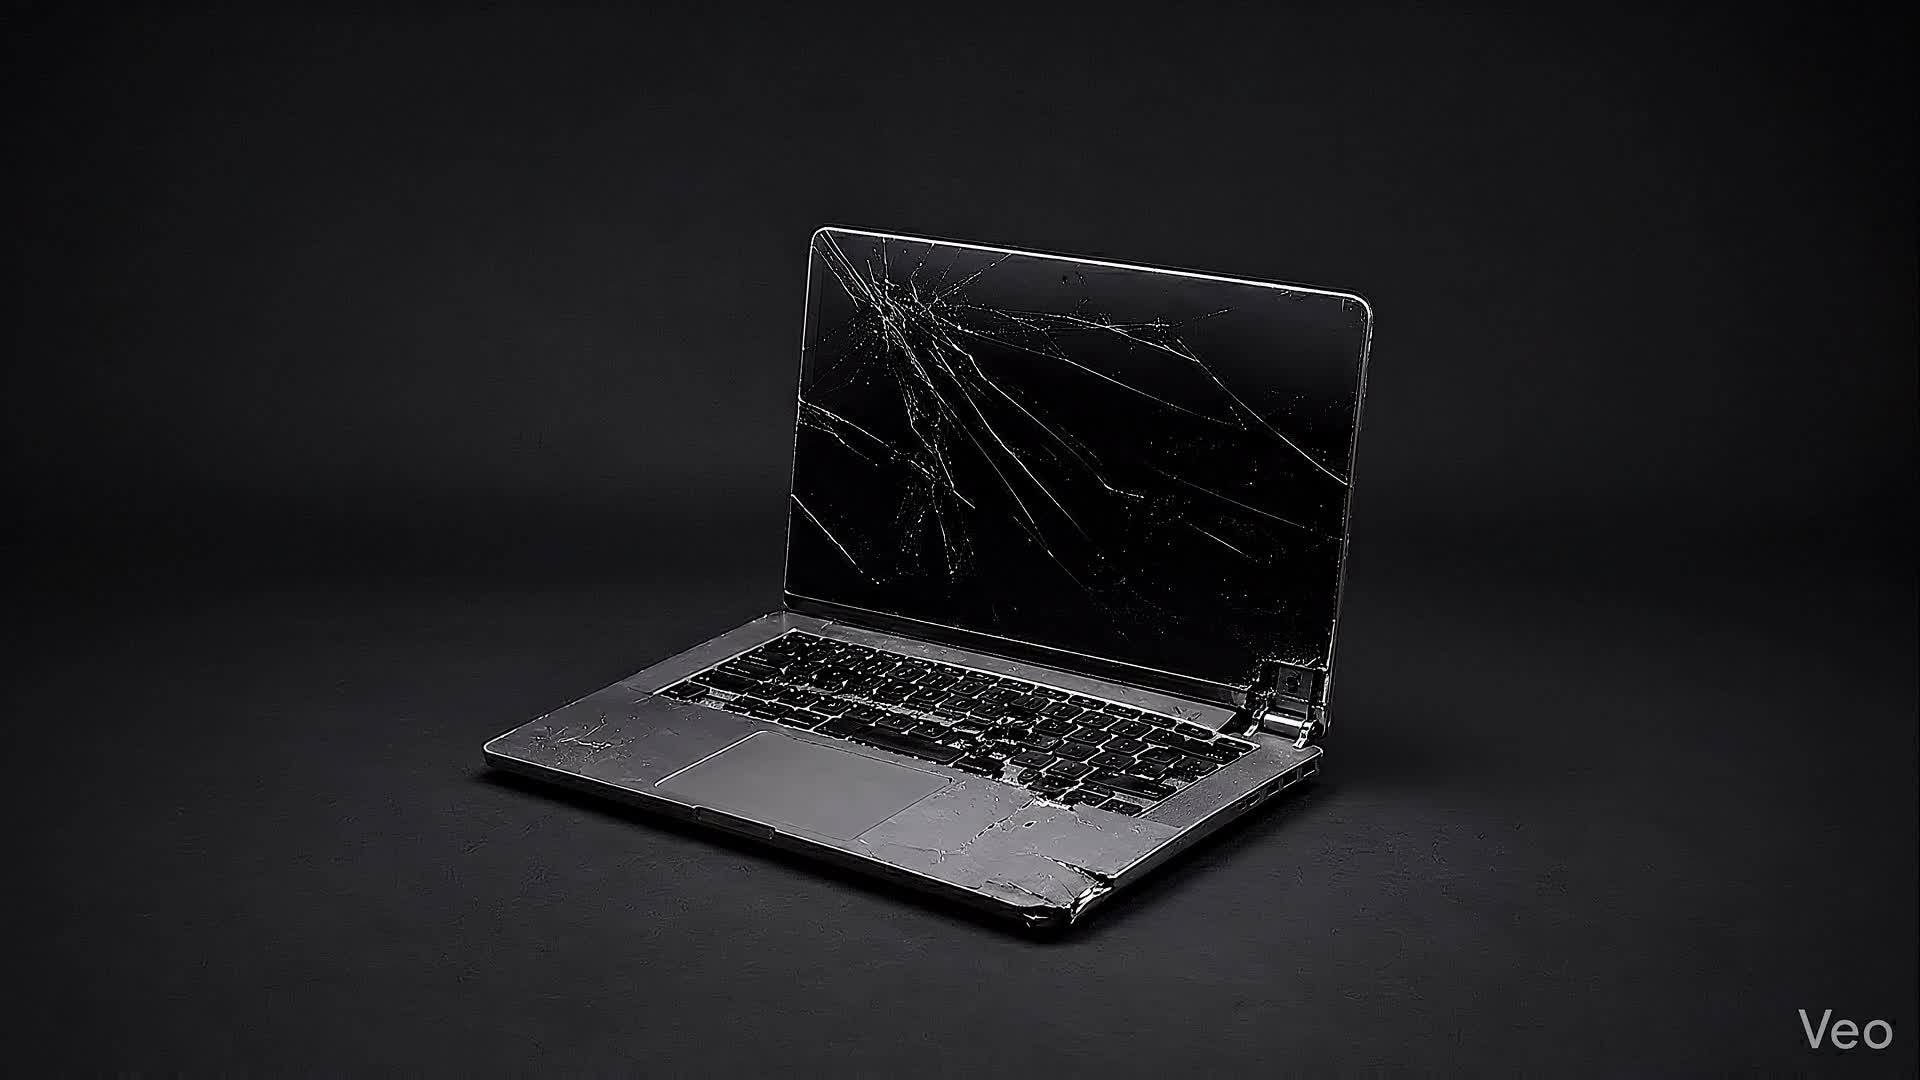
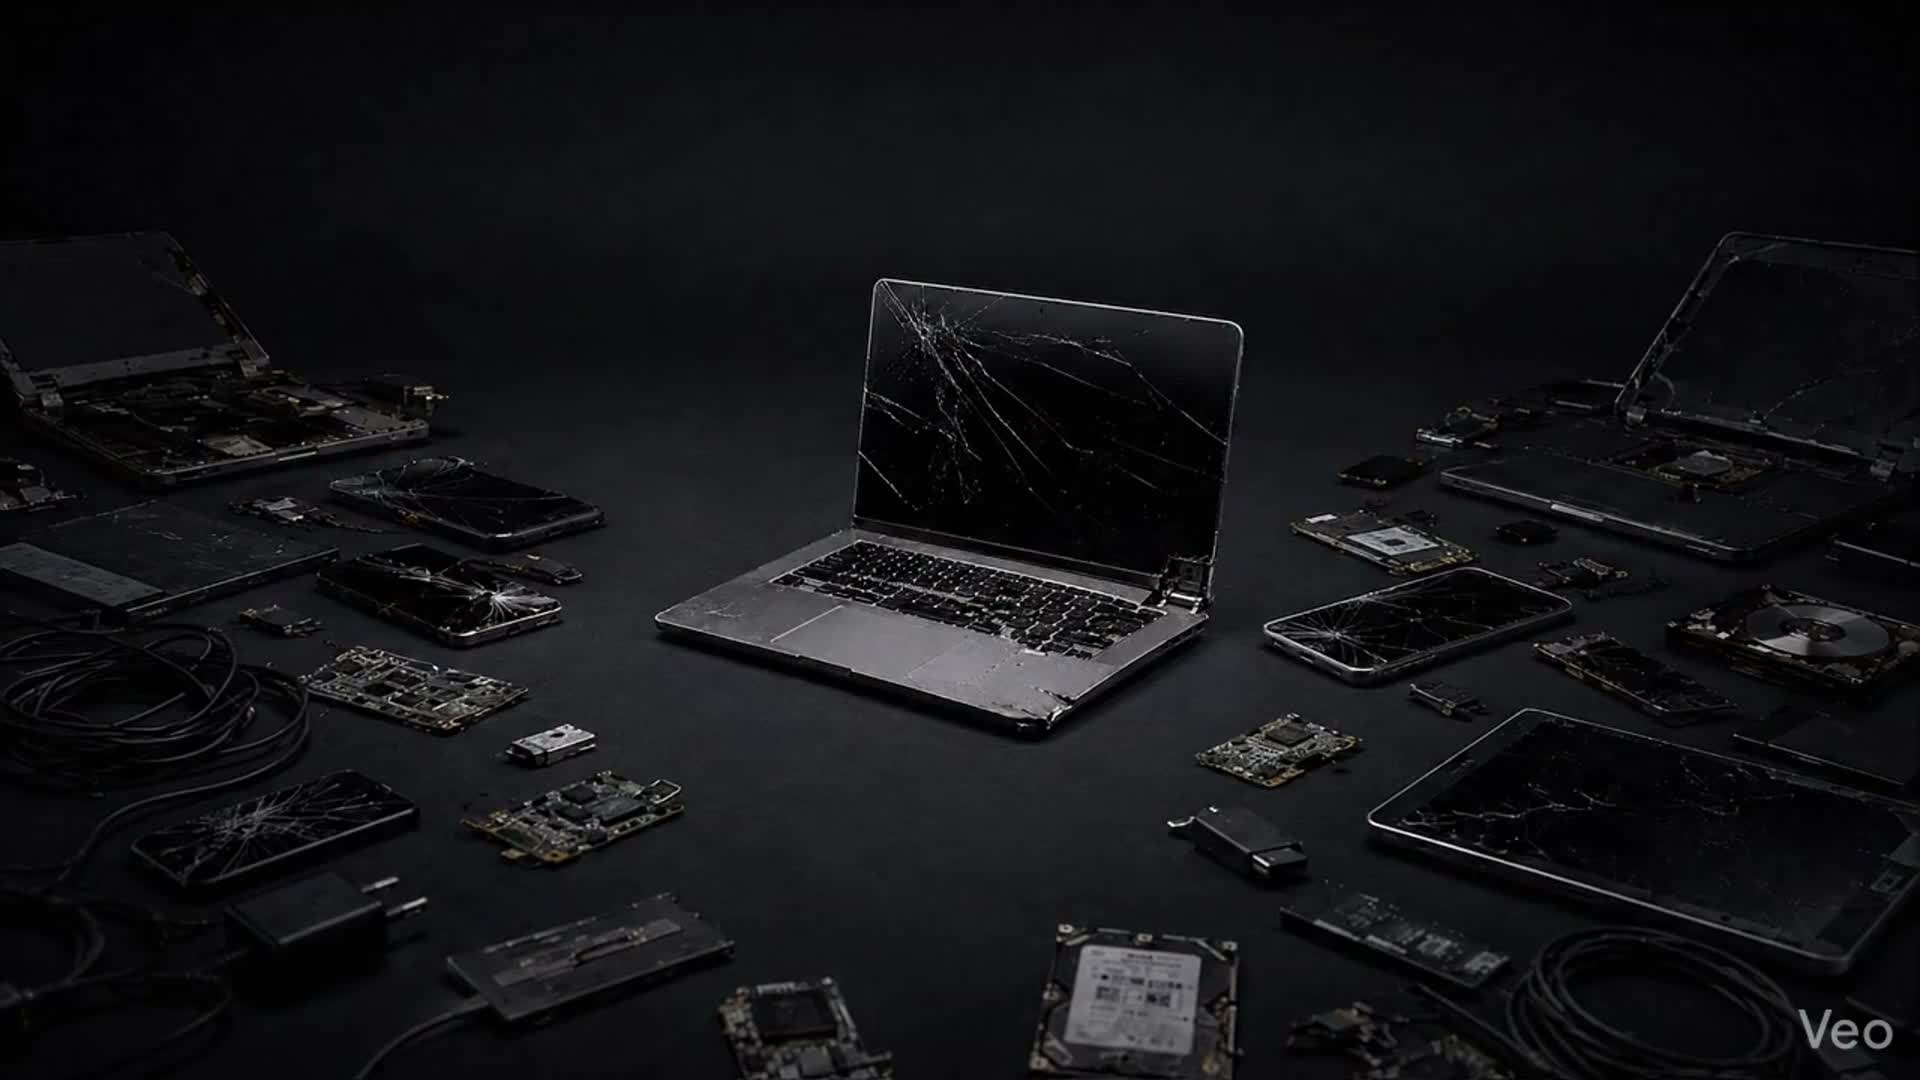
Prepend intro clip and expand landing story to 5 checkpoints

diff --git a/frontend/src/pages/LandingPage.tsx b/frontend/src/pages/LandingPage.tsx
@@ -2,7 +2,7 @@ import { useEffect, useRef, useState } from 'react';
 import { Link } from 'react-router-dom';
 import './LandingPage.css';
 
-const CHECKPOINTS = [0, 2, 4 + 9 / 30, 8 + 5 / 30] as const;
+const CHECKPOINTS = [0, 8, 10, 8 + 4 + 9 / 30, 8 + 8 + 5 / 30] as const;
 const LAST_CHECKPOINT_INDEX = CHECKPOINTS.length - 1;
 const TRANSITION_MS = 2000;
 const DEFAULT_LANDING_VIDEO_URL =
@@ -11,29 +11,44 @@ const LANDING_VIDEO_URL =
   import.meta.env.VITE_LANDING_VIDEO_URL ??
   DEFAULT_LANDING_VIDEO_URL;
 
-type CheckpointIndex = 0 | 1 | 2 | 3;
+type CheckpointIndex = 0 | 1 | 2 | 3 | 4;
 type Mode = 'paused' | 'transition';
 
 const CAPTIONS = [
   {
     kicker: 'Checkpoint 01',
-    title: 'A broken laptop is still full of value.',
-    body: 'We start at failure state, then isolate what can still be reused safely instead of treating the whole device as waste.',
+    titleLines: [
+      'Thirteen unused or broken devices per household.',
+      'Now multiply that by millions of homes.',
+    ],
+    subtext:
+      'WEEE Forum. (2022, October 13). International E-waste Day: Of ~16 billion mobile phones possessed worldwide, ~5.3 billion will become waste in 2022.',
   },
   {
     kicker: 'Checkpoint 02',
-    title: 'Inside the shell, the usable core appears.',
-    body: 'Recovered cells and boards become the power base for a practical build, with safety and feasibility checked first.',
+    titleLines: [
+      'An old device is not empty.',
+      'It still holds materials, parts, and possibility.',
+    ],
+    subtext:
+      'Inside are the pieces we often overlook: metals, circuits, wiring, screws, and components that may still have value.',
   },
   {
     kicker: 'Checkpoint 03',
-    title: 'From parts to prototype in one pass.',
-    body: 'The concept becomes a real assembly: structure, wiring, and function come together into a working form.',
+    titleLines: ['Inside the shell, the useful core appears.'],
+    subtext:
+      'The outer layer opens to reveal the parts and structure hidden beneath the surface.',
   },
   {
     kicker: 'Checkpoint 04',
-    title: 'Second life complete: a working desk fan.',
-    body: 'This is the outcome ReSource AI helps you reach, then document and reproduce on your own discarded hardware.',
+    titleLines: ['Parts begin to shift into purpose.'],
+    subtext: '',
+  },
+  {
+    kicker: 'Checkpoint 05',
+    titleLines: ['What was left behind now has a new purpose.'],
+    subtext:
+      'A second-life concept built from recovered components and guided by ReSource AI.',
   },
 ] as const;
 
@@ -237,12 +252,10 @@ export function LandingPage(): JSX.Element {
     setVideoTime(CHECKPOINTS[0]);
   };
 
-  const currentCaption = CAPTIONS[checkpoint];
   const showFinalActions = mode === 'paused' && checkpoint === LAST_CHECKPOINT_INDEX;
-  const captionZero = captionState(0, mode, checkpoint, transitionFrom, transitionTo, transitionProgress);
-  const captionOne = captionState(1, mode, checkpoint, transitionFrom, transitionTo, transitionProgress);
-  const captionTwo = captionState(2, mode, checkpoint, transitionFrom, transitionTo, transitionProgress);
-  const captionThree = captionState(3, mode, checkpoint, transitionFrom, transitionTo, transitionProgress);
+  const captionStyles = CAPTIONS.map((_, index) =>
+    captionState(index as CheckpointIndex, mode, checkpoint, transitionFrom, transitionTo, transitionProgress)
+  );
 
   return (
     <div
@@ -269,37 +282,34 @@ export function LandingPage(): JSX.Element {
         />
         <div className="chapter-shade" />
 
-        <article className="chapter-caption" style={{ opacity: captionZero.opacity, transform: `translateY(${captionZero.y}px)` }}>
-          <p className="chapter-kicker">{CAPTIONS[0].kicker}</p>
-          <h1>{CAPTIONS[0].title}</h1>
-          <p>{CAPTIONS[0].body}</p>
-        </article>
-
-        <article className="chapter-caption" style={{ opacity: captionOne.opacity, transform: `translateY(${captionOne.y}px)` }}>
-          <p className="chapter-kicker">{CAPTIONS[1].kicker}</p>
-          <h1>{CAPTIONS[1].title}</h1>
-          <p>{CAPTIONS[1].body}</p>
-        </article>
-
-        <article className="chapter-caption" style={{ opacity: captionTwo.opacity, transform: `translateY(${captionTwo.y}px)` }}>
-          <p className="chapter-kicker">{CAPTIONS[2].kicker}</p>
-          <h1>{CAPTIONS[2].title}</h1>
-          <p>{CAPTIONS[2].body}</p>
-        </article>
-
-        <article className="chapter-caption" style={{ opacity: captionThree.opacity, transform: `translateY(${captionThree.y}px)` }}>
-          <p className="chapter-kicker">{CAPTIONS[3].kicker}</p>
-          <h1>{CAPTIONS[3].title}</h1>
-          <p>{CAPTIONS[3].body}</p>
-          <div className={showFinalActions ? 'chapter-actions is-visible' : 'chapter-actions is-hidden'}>
-            <Link to="/register" className="chapter-btn chapter-btn-primary">
-              Get started
-            </Link>
-            <Link to="/login" className="chapter-btn chapter-btn-secondary">
-              I have an account
-            </Link>
-          </div>
-        </article>
+        {CAPTIONS.map((caption, index) => (
+          <article
+            key={caption.kicker}
+            className="chapter-caption"
+            style={{ opacity: captionStyles[index]?.opacity ?? 0, transform: `translateY(${captionStyles[index]?.y ?? 0}px)` }}
+          >
+            <p className="chapter-kicker">{caption.kicker}</p>
+            <h1>
+              {caption.titleLines.map((line, lineIndex) => (
+                <span key={`${caption.kicker}-${line}`}>
+                  {line}
+                  {lineIndex < caption.titleLines.length - 1 ? <br /> : null}
+                </span>
+              ))}
+            </h1>
+            {caption.subtext ? <p className="chapter-subtext">{caption.subtext}</p> : null}
+            {index === LAST_CHECKPOINT_INDEX ? (
+              <div className={showFinalActions ? 'chapter-actions is-visible' : 'chapter-actions is-hidden'}>
+                <Link to="/register" className="chapter-btn chapter-btn-primary">
+                  Get started
+                </Link>
+                <Link to="/login" className="chapter-btn chapter-btn-secondary">
+                  I have an account
+                </Link>
+              </div>
+            ) : null}
+          </article>
+        ))}
       </div>
     </div>
   );

diff --git a/frontend/src/pages/LandingPage.css b/frontend/src/pages/LandingPage.css
@@ -91,13 +91,14 @@
   text-wrap: balance;
 }
 
-.chapter-caption p {
+.chapter-subtext {
   margin: 0.8rem 0 0;
   max-width: 34ch;
   color: rgba(255, 255, 255, 0.86);
-  font-size: clamp(0.98rem, 1.52vw, 1.08rem);
+  font-size: clamp(0.74rem, 1.08vw, 0.86rem);
   line-height: 1.5;
-  font-weight: 600;
+  font-weight: 500;
+  font-style: italic;
 }
 
 .chapter-actions {
@@ -159,7 +160,7 @@
 
 .chapter-caption .chapter-kicker,
 .chapter-caption h1,
-.chapter-caption p,
+.chapter-caption .chapter-subtext,
 .chapter-caption .chapter-actions {
   text-shadow: 0 2px 18px rgba(0, 0, 0, 0.42);
 }
